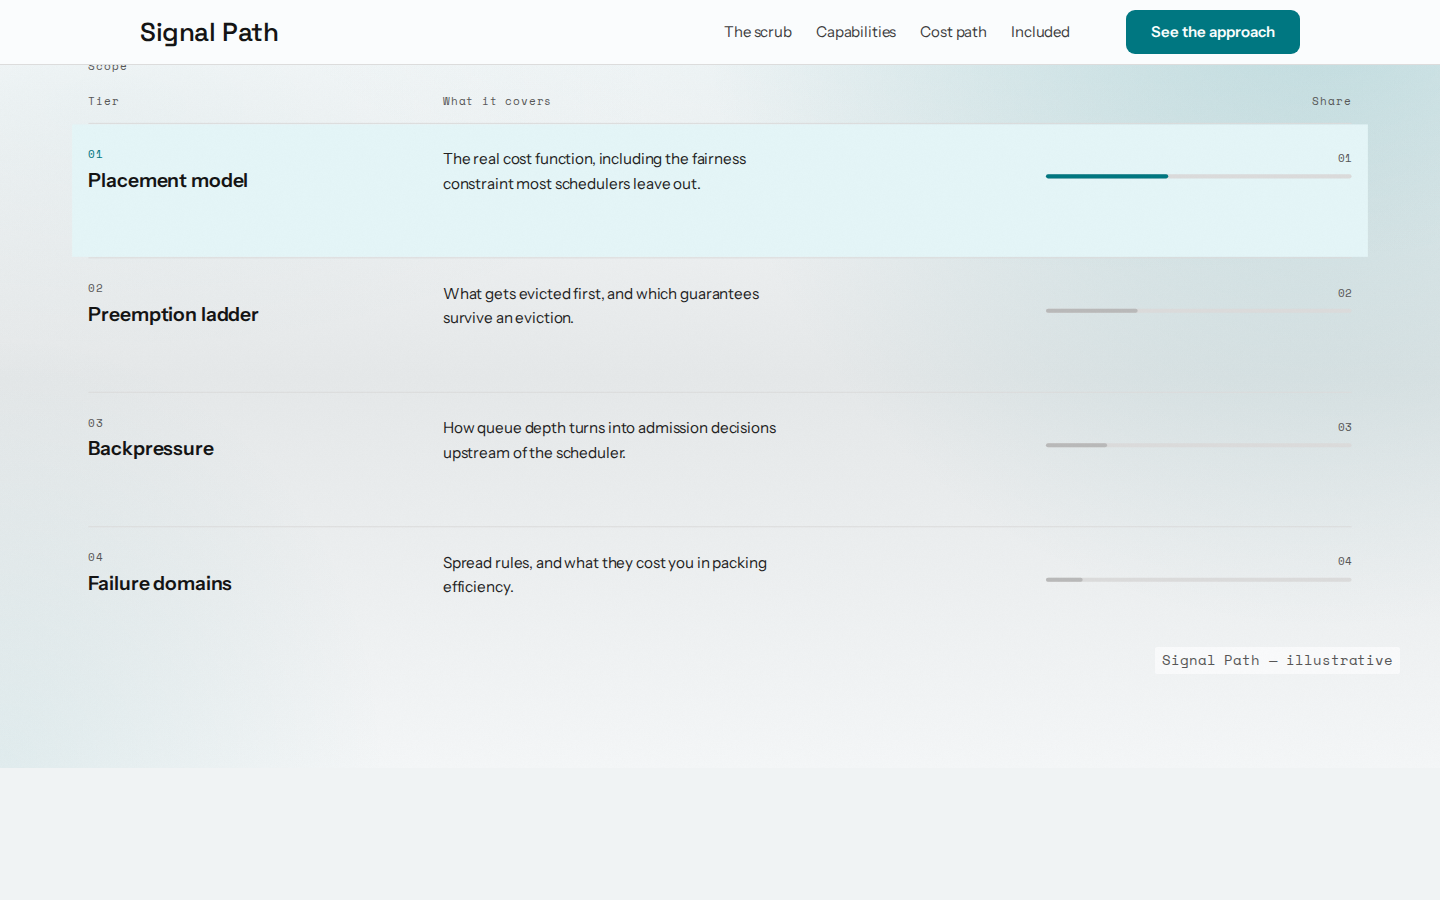
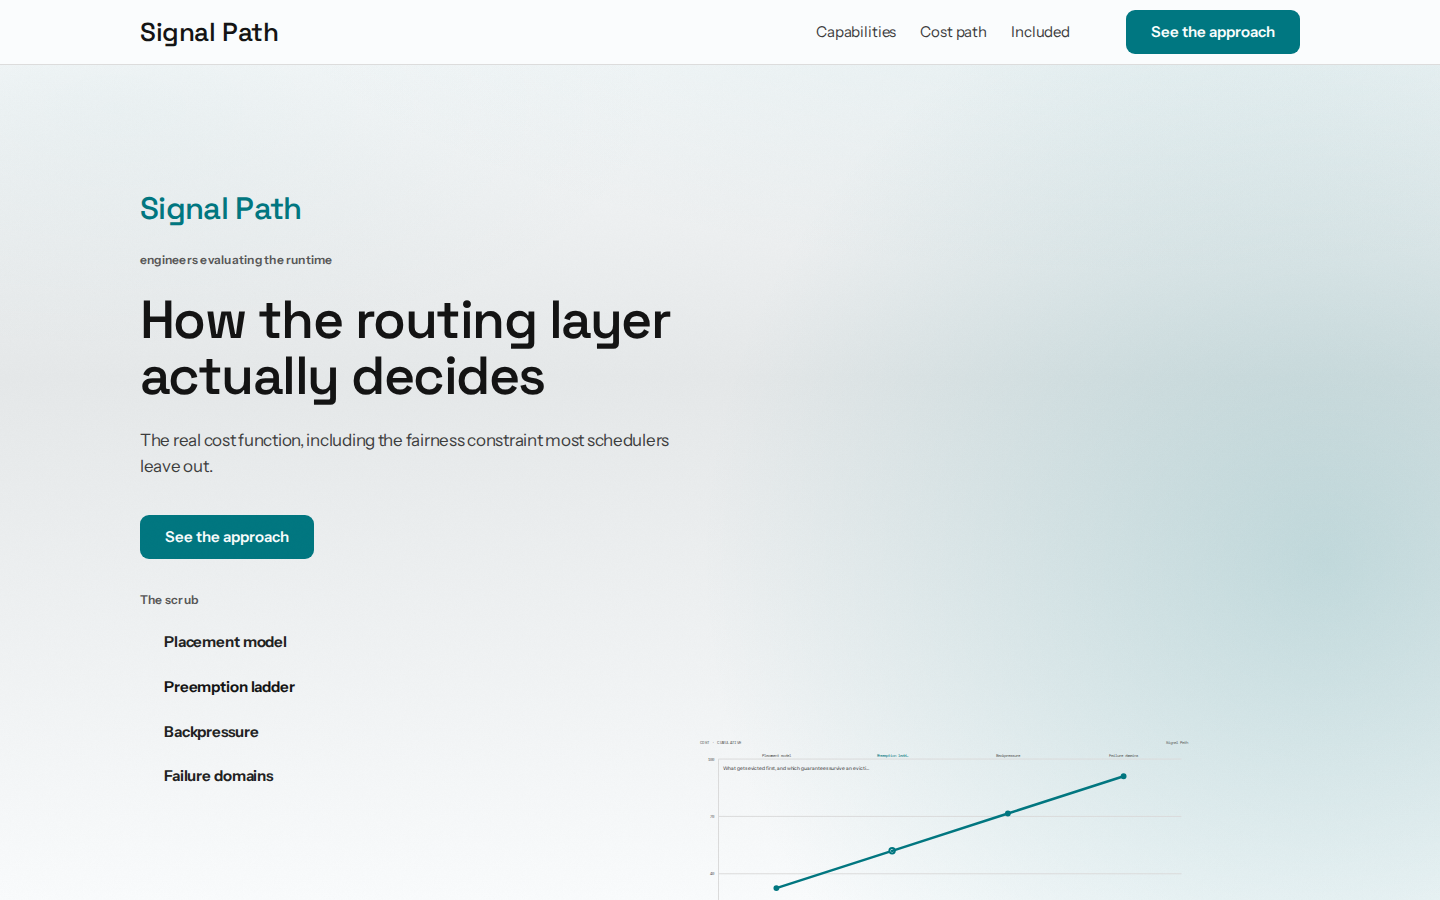
docs(showcase): recapture first-five folds on new fold instruments
Point capture selectors at pipeline/queue/diligence/mechanism/wire fields
and refresh stills + craft-reel GIFs so README shows unreplicable folds.

diff --git a/scripts/capture-readme-showcase.ts b/scripts/capture-readme-showcase.ts
@@ -59,7 +59,7 @@ const TEMPLATES: Array<{
   {
     key: "saas",
     beats: [
-      { id: "fold", sel: ".ds-hero .ds-plate-bleed, .ds-hero", yPad: 8 },
+      { id: "fold", sel: ".ds-pipeline-field, .ds-hero-pipeline, .ds-hero", yPad: 8 },
       { id: "features", sel: "#features, [data-section='features']", yPad: 36 },
       { id: "proof", sel: "#proof, [data-section='proof']", yPad: 36 },
     ],
@@ -67,7 +67,7 @@ const TEMPLATES: Array<{
   {
     key: "dashboard",
     beats: [
-      { id: "fold", sel: ".ds-hero .ds-plate-bleed, .ds-hero, h1", yPad: 8 },
+      { id: "fold", sel: ".ds-queue-field, .ds-hero-queue, .ds-hero", yPad: 8 },
       { id: "shell", sel: "#app, .ds-app-band, .ds-app", yPad: 20 },
       { id: "proof", sel: "#proof, [data-section='proof']", yPad: 36 },
     ],
@@ -75,7 +75,7 @@ const TEMPLATES: Array<{
   {
     key: "corporate",
     beats: [
-      { id: "fold", sel: ".ds-hero .ds-plate-bleed, .ds-hero", yPad: 8 },
+      { id: "fold", sel: ".ds-diligence-field, .ds-hero-diligence, .ds-hero", yPad: 8 },
       { id: "story", sel: "#story, [data-section='story']", yPad: 36 },
       { id: "proof", sel: "#proof, [data-section='proof']", yPad: 36 },
     ],
@@ -83,15 +83,15 @@ const TEMPLATES: Array<{
   {
     key: "educational",
     beats: [
-      { id: "fold", sel: ".ds-hero .ds-plate-bleed, [data-figure='stack'], .ds-hero", yPad: 8 },
-      { id: "scrub", sel: "#figure, [data-section='figure']", yPad: 28 },
+      { id: "fold", sel: ".ds-mechanism-stage, .ds-hero-mechanism, .ds-hero", yPad: 8 },
+      { id: "scrub", sel: ".ds-mechanism-grid, #features", yPad: 28 },
       { id: "features", sel: "#features, [data-section='features']", yPad: 36 },
     ],
   },
   {
     key: "fintech",
     beats: [
-      { id: "fold", sel: ".ds-hero .ds-plate-bleed, .ds-hero", yPad: 8 },
+      { id: "fold", sel: ".ds-wire-field, .ds-hero-wire, .ds-hero", yPad: 8 },
       { id: "features", sel: "#features, [data-section='features']", yPad: 36 },
       { id: "proof", sel: "#proof, [data-section='proof']", yPad: 36 },
     ],

diff --git a/scripts/capture-first5-reels.ts b/scripts/capture-first5-reels.ts
@@ -15,11 +15,11 @@ const TMP = resolve("/tmp/tell-first5-reels");
 const VIEWPORT = { width: 1440, height: 900 };
 
 const KEYS = [
-  { key: "saas", beats: [".ds-hero .ds-plate-bleed, .ds-hero", "#features", "#proof"] },
-  { key: "dashboard", beats: [".ds-hero .ds-plate-bleed, .ds-hero", "#app, .ds-app", "#proof"] },
-  { key: "corporate", beats: [".ds-hero .ds-plate-bleed, .ds-hero", "#story", "#proof"] },
-  { key: "educational", beats: ["[data-figure='stack'], .ds-hero", "#figure", "#features"] },
-  { key: "fintech", beats: [".ds-hero .ds-plate-bleed, .ds-hero", "#features", "#proof"] },
+  { key: "saas", beats: [".ds-pipeline-field, .ds-hero-pipeline", "#features", "#proof"] },
+  { key: "dashboard", beats: [".ds-queue-field, .ds-hero-queue", "#app, .ds-app", "#proof"] },
+  { key: "corporate", beats: [".ds-diligence-field, .ds-hero-diligence", "#story", "#proof"] },
+  { key: "educational", beats: [".ds-mechanism-stage, .ds-hero-mechanism", ".ds-mechanism-grid", "#features"] },
+  { key: "fintech", beats: [".ds-wire-field, .ds-hero-wire", "#features", "#proof"] },
 ];
 
 async function main(): Promise<void> {
